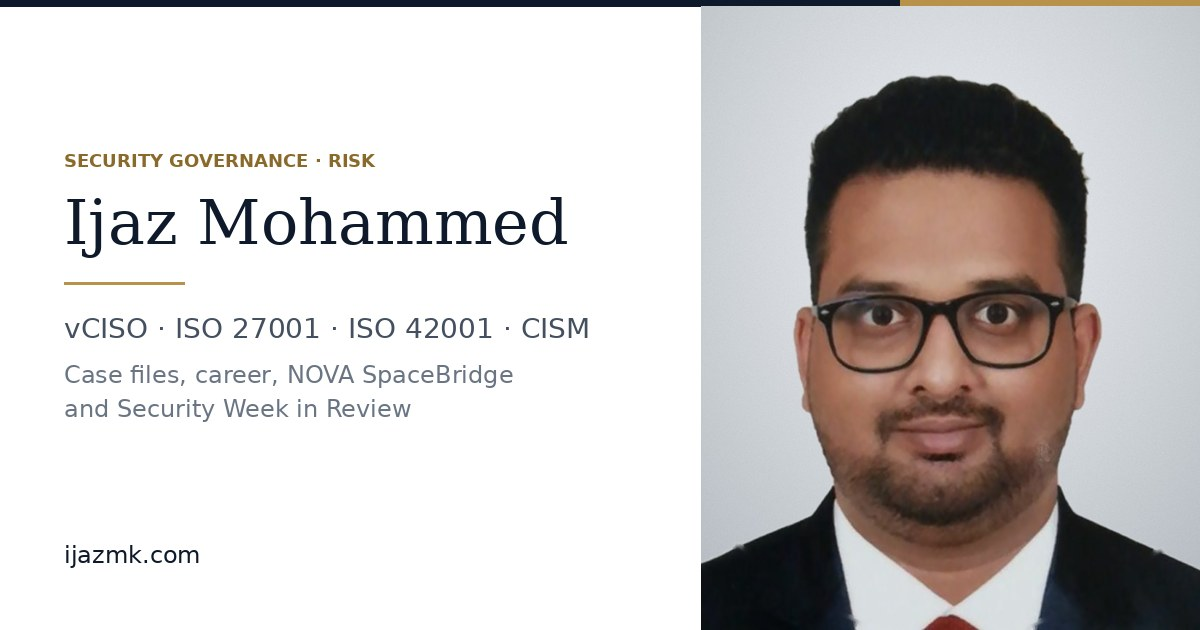
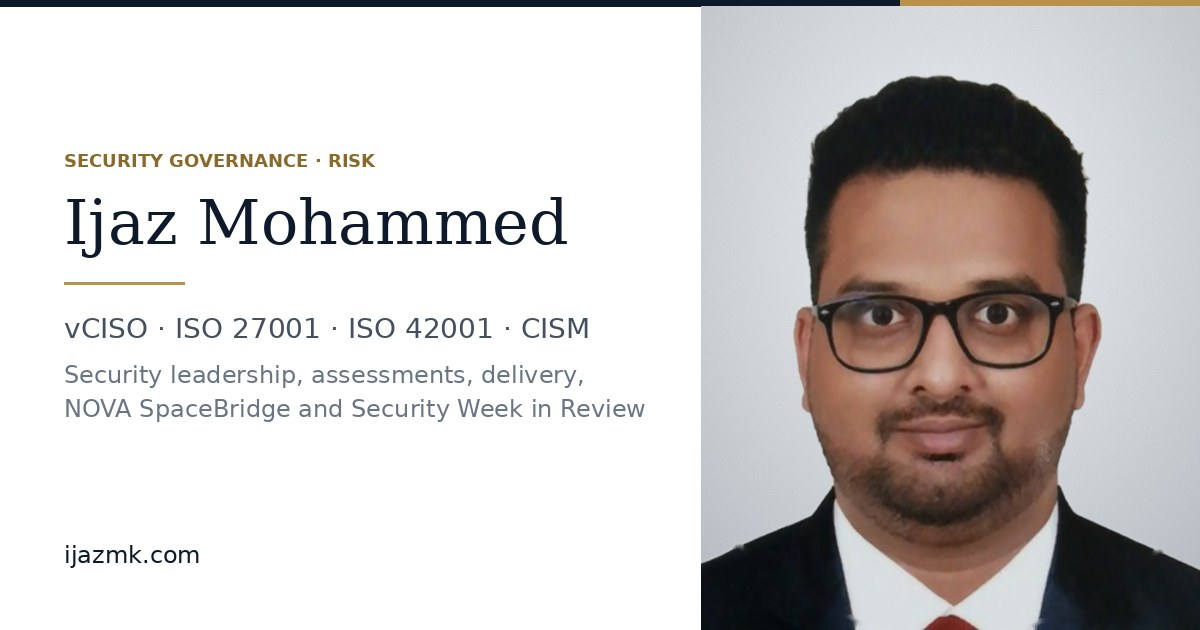
Replace numbers, method and case files with 'What I do'; remove Annex A grid; add CCSP and AAISM to Now
Claude-Session: https://claude.ai/code/session_016zFR5vWDQSDBXWEciqvpMe

Changed region(s): [[0.0308, 0.573, 0.555, 0.6635]]

diff --git a/index.html b/index.html
@@ -11,7 +11,7 @@
 <meta property="og:description" content="Case files, method, credentials, and a weekly security digest for leaders and tech teams.">
 <meta property="og:type" content="website">
 <meta property="og:url" content="https://ijazmk.com/">
-<meta property="og:image" content="https://ijazmk.com/assets/og-card.jpg?v=3">
+<meta property="og:image" content="https://ijazmk.com/assets/og-card.jpg?v=4">
 <meta property="og:image:width" content="1200">
 <meta property="og:image:height" content="630">
 <meta name="twitter:card" content="summary_large_image">
@@ -27,10 +27,9 @@
   <div class="wrap">
     <a class="brand" href="#top"><b aria-hidden="true"></b>Ijaz Mohammed</a>
     <nav class="nav" aria-label="Sections">
-      <a href="#method" class="opt">Method</a>
-      <a href="#work">Work</a>
-      <a href="#career" class="opt">Career</a>
-      <a href="#now" class="opt">Now</a>
+      <a href="#what-i-do">What I do</a>
+      <a href="#career" class="opt">Experience</a>
+            <a href="#now" class="opt">Now</a>
       <a href="#building" class="opt">NOVA</a>
       <a href="digest/">Digest</a>
       <a href="assets/Ijaz_Mohammed_Resume.pdf" target="_blank" rel="noopener">Résumé</a>
@@ -50,7 +49,7 @@
           <p class="headline rise d2">I turn technical risk into <span class="hl">decisions leaders can act on.</span></p>
           <p class="lede rise d3">Then I stay for the part where the control gets built and the evidence holds up. Eight years across healthcare, financial services, energy and FMCG, from audit floors to running a security program for a hospital group.</p>
           <div class="actions rise d3">
-            <a class="btn primary" href="#work">See the work</a>
+            <a class="btn primary" href="#what-i-do">What I do</a>
             <a class="btn" href="assets/Ijaz_Mohammed_Resume.pdf" target="_blank" rel="noopener">Résumé PDF</a>
             <a class="btn" href="digest/">Weekly digest</a>
           </div>
@@ -71,149 +70,72 @@
 
       <nav class="inside rise d4" aria-label="Also inside">
         <span class="label">Also inside</span>
-        <a href="#work">The case files<span>11 pieces of work, what changed</span></a>
-        <a href="#coverage">Annex A coverage<span>35 of 93 controls, interactive</span></a>
+        <a href="#what-i-do">What I do<span>Leadership, assessments, delivery</span></a>
+        <a href="#career">Experience<span>Engineer, auditor, builder</span></a>
         <a href="#building">NOVA SpaceBridge<span>The seven-lens Assure map</span></a>
         <a href="#digest">Week in Review<span>Issue 04 is out</span></a>
       </nav>
     </div>
   </section>
 
-  <section class="band" aria-label="By the numbers">
-    <div class="wrap">
-      <div class="stat"><strong>8+</strong><span>years in security, audit and GRC</span></div>
-      <div class="stat"><strong>39</strong><span>vendors in the annual TPRM cycle I run</span></div>
-      <div class="stat"><strong>83</strong><span>applications in the authentication register</span></div>
-      <div class="stat"><strong>~3,000</strong><span>controls tested in 45 days for a global energy major</span></div>
-      <div class="stat"><strong>20</strong><span>group websites moving into one secure AWS landing zone</span></div>
-    </div>
-  </section>
-
-  <section class="section" id="method">
+  <section class="section" id="what-i-do">
     <div class="wrap">
       <div class="section-head">
         <div>
-          <div class="kick"><span class="label">How I work</span><span class="label">The method</span></div>
-          <h2>Four steps. <span class="hl">Every engagement.</span></h2>
+          <div class="kick"><span class="label">What I do</span><span class="label">Leadership · assessments · delivery</span></div>
+          <h2>More than <span class="hl">implementation.</span></h2>
         </div>
-        <p class="side">Whether it's an ISO 27001 build, a vendor review or an SSO rollout, the work runs in the same order. Skipping a step is usually where programs stall.</p>
-      </div>
-      <ol class="method">
-        <li><span class="n">01</span><h3>Start with the business</h3><p>What can't stop, who gets hurt if it does, and who owns the decision. A hospital and an exchange house have different worst days.</p></li>
-        <li><span class="n">02</span><h3>Map once, comply many times</h3><p>One unified control framework across ISO 27001, ADHICS and NIST CSF, so one control answers several auditors instead of three spreadsheets.</p></li>
-        <li><span class="n">03</span><h3>Build the control with its evidence</h3><p>A control nobody can prove is an opinion. I write the configuration, the owner and the evidence at the same time.</p></li>
-        <li><span class="n">04</span><h3>Hand over a decision, not a report</h3><p>Options, cost, residual risk and a named owner. Leadership should be able to say yes or no in one meeting.</p></li>
-      </ol>
-    </div>
-  </section>
-
-  <section class="section" id="work">
-    <div class="wrap">
-      <div class="section-head">
-        <div>
-          <div class="kick"><span class="label">Selected work</span><span class="label">Healthcare · energy · finance · FMCG</span></div>
-          <h2>The case files</h2>
-        </div>
-        <p class="side">What I did, where, and what changed because of it. Each file is tagged with the ISO 27001:2022 Annex A controls it moved. Hover or tap a file to light them up on the grid below.</p>
+        <p class="side">Framework implementation is one part of the job. Most of my work is leading security programs, assessing risk honestly, running projects through to the end, and growing the people around them.</p>
       </div>
 
-      <div class="cases" id="cases">
-        <article class="case wide" tabindex="0" data-c="5.15 5.16 5.17 5.18 8.5 7.7">
-          <div class="case-top"><div class="tags"><span class="tag hot">Identity</span><span class="tag">Flagship</span></div><span class="where">Healthcare group, GCC · 2025 – now</span></div>
-          <h3>Single sign-on across clinical, business and cloud platforms</h3>
-          <p>Leading a three-phase SSO program on Microsoft Entra ID. The hard part wasn't the protocol, it was the shared clinical workstations in operating theatres, where Conditional Access and session controls had to cut unattended-session risk without slowing a surgeon down. Along the way I built an authentication register covering <span class="fig">83 applications</span> and an application-to-entity map across <span class="fig">20 group entities</span>, so leadership has one view of who logs in where and where the gaps are.</p>
-          <div class="controls"><span class="label">Annex A</span><span class="chip">5.15</span><span class="chip">5.16</span><span class="chip">5.17</span><span class="chip">5.18</span><span class="chip">7.7</span><span class="chip">8.5</span></div>
+      <div class="caps">
+        <article class="cap">
+          <span class="label">Leadership</span>
+          <h3>vCISO and security leadership</h3>
+          <p>Running the security program for a multi-brand healthcare group across four countries: strategy, roadmap, budget cases and reporting to leadership. Helped lift program maturity from Risk Informed to Repeatable.</p>
+          <p class="where">ICD InfoSec · 2025 – now</p>
         </article>
-
-        <article class="case" tabindex="0" data-c="5.19 5.20 5.21 5.22">
-          <div class="case-top"><div class="tags"><span class="tag amber">Third-party risk</span></div><span class="where">Healthcare group · 2025 – now</span></div>
-          <h3>A vendor review cycle that changes contracts</h3>
-          <p>Annual assessments across <span class="fig">39 vendors</span>, from cloud and contact-centre platforms to security tooling. Business, technology and people controls, re-tiered criticality, and liability and risk-acceptance clauses added with Legal so findings have somewhere to land.</p>
-          <div class="controls"><span class="label">Annex A</span><span class="chip">5.19</span><span class="chip">5.20</span><span class="chip">5.21</span><span class="chip">5.22</span></div>
+        <article class="cap">
+          <span class="label">Assessments</span>
+          <h3>Security and risk assessments</h3>
+          <p>Third-party risk reviews across 39 vendors a year, connected medical device assessments at two hospitals, architecture and DR reviews before new platforms go live, and go / no-go evaluations of AI products.</p>
+          <p class="where">Healthcare · financial services</p>
         </article>
-
-        <article class="case" tabindex="0" data-c="5.23 5.30 5.34 8.8 8.13 8.16">
-          <div class="case-top"><div class="tags"><span class="tag amber">Cloud &amp; hosting</span></div><span class="where">Healthcare group · 2025 – now</span></div>
-          <h3>Twenty websites, one secure landing zone</h3>
-          <p>Consolidating <span class="fig">20 group websites</span> into a single AWS UAE landing zone: full host and vendor inventory, migration path, and the target controls checklist (EDR, exposure management, vulnerability management, backup, monitoring). New platforms are also reviewed for DR, RPO/RTO and data residency before go-live.</p>
-          <div class="controls"><span class="label">Annex A</span><span class="chip">5.23</span><span class="chip">5.30</span><span class="chip">5.34</span><span class="chip">8.8</span><span class="chip">8.13</span><span class="chip">8.16</span></div>
+        <article class="cap">
+          <span class="label">Governance</span>
+          <h3>GRC, audit and compliance</h3>
+          <p>ISO 27001 programs taken to certification, ISO 22301 continuity, ISO 42001 for AI, and audits against PCI DSS, GDPR, SWIFT, ITGC and DORA readiness. One control set mapped across frameworks, so audits stop repeating work.</p>
+          <p class="where">KPMG · GE Digital · Deriv · UASG · ICD</p>
         </article>
-
-        <article class="case" tabindex="0" data-c="5.9 8.8 8.20 8.22">
-          <div class="case-top"><div class="tags"><span class="tag amber">Medical OT</span></div><span class="where">Two hospitals, UAE · 2026</span></div>
-          <h3>Connected medical devices, assessed properly</h3>
-          <p>Claroty-based and manual vulnerability assessments of connected medical devices at <span class="fig">2 hospitals</span>. Devices you can't patch on a Tuesday need a different conversation, so findings became prioritised remediation reports clinical and biomedical teams could act on.</p>
-          <div class="controls"><span class="label">Annex A</span><span class="chip">5.9</span><span class="chip">8.8</span><span class="chip">8.20</span><span class="chip">8.22</span></div>
+        <article class="cap">
+          <span class="label">Delivery</span>
+          <h3>Project and program management</h3>
+          <p>Multi-phase delivery with business, IT and vendors in the same room: a three-phase SSO rollout on Microsoft Entra ID, moving 20 group websites into one AWS landing zone, and a SOC enhancement rollout.</p>
+          <p class="where">Healthcare · energy</p>
         </article>
-
-        <article class="case" tabindex="0" data-c="8.1 8.9 8.20">
-          <div class="case-top"><div class="tags"><span class="tag amber">Hardening</span></div><span class="where">Healthcare group · 2026</span></div>
-          <h3>Minimum security baselines with the exact settings</h3>
-          <p>CIS Level 1 and 2 baselines with real values for servers, endpoints, POS, FortiGate and SonicWall firewalls, Cisco and Alcatel switches, and MSSQL, Oracle and MySQL. Written so an engineer can apply them and an auditor can test them.</p>
-          <div class="controls"><span class="label">Annex A</span><span class="chip">8.1</span><span class="chip">8.9</span><span class="chip">8.20</span></div>
+        <article class="cap">
+          <span class="label">People</span>
+          <h3>Team leadership and mentoring</h3>
+          <p>Led an internal audit team at a regulated fintech and was deputy lead of a six-person control-testing team at KPMG. I mentor juniors and run security awareness sessions for business, IT and nursing teams.</p>
+          <p class="where">Deriv · KPMG · ICD</p>
         </article>
-
-        <article class="case" tabindex="0" data-c="8.26 6.3 6.8">
-          <div class="case-top"><div class="tags"><span class="tag amber">Apps &amp; people</span></div><span class="where">Healthcare group · 2025 – now</span></div>
-          <h3>Protecting patient-facing apps, and the people using them</h3>
-          <p>Onboarding and tuning hospital and patient-facing applications on Radware WAF, with documented compensating controls where a platform has no native SSO or MFA. Security awareness sessions for business, IT and nursing teams, backed by KnowBe4.</p>
-          <div class="controls"><span class="label">Annex A</span><span class="chip">6.3</span><span class="chip">6.8</span><span class="chip">8.26</span></div>
-        </article>
-
-        <article class="case" tabindex="0" data-c="5.19 5.34">
-          <div class="case-top"><div class="tags"><span class="tag amber">AI risk</span></div><span class="where">Financial services client · 2026</span></div>
-          <h3>Go / no-go on AI platforms</h3>
-          <p>Evaluated an AI data platform and an AML tool on use cases, AI guardrails, data security and vendor risk, so the client could decide on evidence rather than demos. This is where ISO 42001 turns practical.</p>
-          <div class="controls"><span class="label">Annex A</span><span class="chip">5.19</span><span class="chip">5.34</span><span class="chip x">ISO 42001</span></div>
-        </article>
-
-        <article class="case" tabindex="0" data-c="5.7 5.18 5.24 5.26 8.2 8.8 8.16">
-          <div class="case-top"><div class="tags"><span class="tag amber">Security operations</span></div><span class="where">Energy · FMCG, KSA · 2024 – 25</span></div>
-          <h3>Detection you can measure</h3>
-          <p>Strengthened MITRE ATT&amp;CK-based detection for a SOC enhancement, including AI-driven use cases, and ran FourCore breach and attack simulations to test controls against real attack paths. Also PAM, access reviews, vulnerability closure and incident tabletop exercises.</p>
-          <div class="controls"><span class="label">Annex A</span><span class="chip">5.7</span><span class="chip">5.18</span><span class="chip">5.24</span><span class="chip">5.26</span><span class="chip">8.2</span><span class="chip">8.8</span><span class="chip">8.16</span></div>
-        </article>
-
-        <article class="case" tabindex="0" data-c="5.24 5.29 5.30 5.31 5.35">
-          <div class="case-top"><div class="tags"><span class="tag amber">Audit &amp; continuity</span></div><span class="where">Online trading fintech · 2022 – 24</span></div>
-          <h3>Leading audit in a regulated fintech</h3>
-          <p>Led internal audit for GDPR, SWIFT and PCI DSS, ITGC and DORA readiness, and implemented business continuity and incident management to ISO 22301. Mentored junior auditors along the way.</p>
-          <div class="controls"><span class="label">Annex A</span><span class="chip">5.24</span><span class="chip">5.29</span><span class="chip">5.30</span><span class="chip">5.31</span><span class="chip">5.35</span></div>
-        </article>
-
-        <article class="case" tabindex="0" data-c="5.35 5.36">
-          <div class="case-top"><div class="tags"><span class="tag amber">Assurance</span></div><span class="where">Global energy major, via KPMG · 2018 – 20</span></div>
-          <h3>About 3,000 controls in 45 days</h3>
-          <p>Internal control testing for security compliance as part of a six-person team, acting as deputy lead. It taught me how to read evidence fast, and how to tell a working control from a well-written one.</p>
-          <div class="controls"><span class="label">Annex A</span><span class="chip">5.35</span><span class="chip">5.36</span></div>
-        </article>
-
-        <article class="case" tabindex="0" data-c="5.1 5.2 5.31 8.27">
-          <div class="case-top"><div class="tags"><span class="tag amber">Programs from zero</span></div><span class="where">NBFC · exchange house · 2018 – 22</span></div>
-          <h3>Security governance where there was none</h3>
-          <p>ISO 27001 end to end for an Indian NBFC, from gap and risk assessment to Statement of Applicability, internal audit and certification. Later, formal governance, standards and controls for a PCI DSS-regulated exchange house in Dubai. Plus threat models for a product firm.</p>
-          <div class="controls"><span class="label">ISO 27001</span><span class="chip x">Cl. 4–10</span><span class="chip">5.1</span><span class="chip">5.2</span><span class="chip">5.31</span><span class="chip">8.27</span></div>
+        <article class="cap">
+          <span class="label">Operations</span>
+          <h3>Security operations and identity</h3>
+          <p>MITRE ATT&amp;CK-based detection, breach and attack simulation, privileged access, access reviews and vulnerability management, plus identity design: SSO, Conditional Access and shared clinical workstations.</p>
+          <p class="where">Microminder · ICD</p>
         </article>
       </div>
 
-      <div class="coverage" id="coverage">
-        <div class="cov-head">
-          <div>
-            <div class="kick" style="margin-bottom:10px"><span class="label">Proof of work</span><span class="label">ISO/IEC 27001:2022 Annex A</span></div>
-            <h3>Where my work lands in the standard</h3>
-          </div>
-          <div class="cov-count"><b>35</b> of 93 controls designed, implemented or tested in delivered work</div>
-        </div>
-        <div class="themes" id="themes" aria-label="Annex A controls by theme"></div>
-        <aside class="cov-panel" id="panel" aria-live="polite">
-          <span class="code">A.5.19</span>
-          <h4>Information security in supplier relationships</h4>
-          <span class="label">Where it shows up</span>
-          <ul><li>A vendor review cycle that changes contracts</li><li>Go / no-go on AI platforms</li></ul>
-        </aside>
-        <div class="cov-key" style="grid-column:1/-1"><span><i class="on"></i>Covered in delivered work</span><span><i class="lit"></i>The file you're looking at</span><span><i></i>Not yet on this list</span><span>Tap any square for the control name.</span></div>
+      <div class="how">
+        <h3 class="how-title">How I work, whatever the engagement</h3>
+        <ol class="method">
+          <li><span class="n">01</span><h3>Start with the business</h3><p>What can't stop, who gets hurt if it does, and who owns the decision. A hospital and an exchange house have different worst days.</p></li>
+          <li><span class="n">02</span><h3>Assess what is real</h3><p>Look at what is actually configured, contracted and staffed, not only what the policy says. Every finding comes with its evidence.</p></li>
+          <li><span class="n">03</span><h3>Deliver with the owners</h3><p>Controls, projects and teams only stick when the people who run them help shape them. I plan the work, clear blockers and keep the evidence as we go.</p></li>
+          <li><span class="n">04</span><h3>Hand over a decision, not a report</h3><p>Options, cost, residual risk and a named owner. Leadership should be able to say yes or no in one meeting.</p></li>
+        </ol>
       </div>
-      <p class="footnote">Client work is described at outcome level. Details stay with the client.</p>
     </div>
   </section>
 
@@ -323,8 +245,8 @@
         <article>
           <span class="pill prog">In progress</span>
           <h3>The certification path</h3>
-          <p>CISSP anchors the architecture program. CRISC formalises the risk work I already do every day. SABSA or TOGAF after that, for the enterprise architecture language.</p>
-          <div class="cert-path"><span class="next">CISSP</span><i>→</i><span>CRISC</span><i>→</i><span>SABSA / TOGAF</span></div>
+          <p>CISSP and CCSP for security architecture and cloud, AAISM for AI security management, and CRISC to formalise the risk work I already do every day. SABSA or TOGAF after that, for the enterprise architecture language.</p>
+          <div class="cert-path"><span class="next">CISSP</span><span class="next">CCSP</span><span class="next">AAISM</span><span class="next">CRISC</span><i>→</i><span>SABSA / TOGAF</span></div>
         </article>
         <article>
           <span class="pill ongoing">Ongoing</span>
@@ -472,58 +394,6 @@
 <script>
 (function () {
   var reduce = window.matchMedia && matchMedia('(prefers-reduced-motion: reduce)').matches;
-
-  /* ---------- ISO 27001:2022 Annex A ---------- */
-  var A = {
-    '5': ['Organizational', ['Policies for information security','Information security roles and responsibilities','Segregation of duties','Management responsibilities','Contact with authorities','Contact with special interest groups','Threat intelligence','Information security in project management','Inventory of information and other associated assets','Acceptable use of information and other associated assets','Return of assets','Classification of information','Labelling of information','Information transfer','Access control','Identity management','Authentication information','Access rights','Information security in supplier relationships','Addressing information security within supplier agreements','Managing information security in the ICT supply chain','Monitoring, review and change management of supplier services','Information security for use of cloud services','Information security incident management planning and preparation','Assessment and decision on information security events','Response to information security incidents','Learning from information security incidents','Collection of evidence','Information security during disruption','ICT readiness for business continuity','Legal, statutory, regulatory and contractual requirements','Intellectual property rights','Protection of records','Privacy and protection of PII','Independent review of information security','Compliance with policies, rules and standards for information security','Documented operating procedures']],
-    '6': ['People', ['Screening','Terms and conditions of employment','Information security awareness, education and training','Disciplinary process','Responsibilities after termination or change of employment','Confidentiality or non-disclosure agreements','Remote working','Information security event reporting']],
-    '7': ['Physical', ['Physical security perimeters','Physical entry','Securing offices, rooms and facilities','Physical security monitoring','Protecting against physical and environmental threats','Working in secure areas','Clear desk and clear screen','Equipment siting and protection','Security of assets off-premises','Storage media','Supporting utilities','Cabling security','Equipment maintenance','Secure disposal or re-use of equipment']],
-    '8': ['Technological', ['User endpoint devices','Privileged access rights','Information access restriction','Access to source code','Secure authentication','Capacity management','Protection against malware','Management of technical vulnerabilities','Configuration management','Information deletion','Data masking','Data leakage prevention','Information backup','Redundancy of information processing facilities','Logging','Monitoring activities','Clock synchronization','Use of privileged utility programs','Installation of software on operational systems','Networks security','Security of network services','Segregation of networks','Web filtering','Use of cryptography','Secure development life cycle','Application security requirements','Secure system architecture and engineering principles','Secure coding','Security testing in development and acceptance','Outsourced development','Separation of development, test and production environments','Change management','Test information','Protection of information systems during audit testing']]
-  };
-  var cases = Array.prototype.slice.call(document.querySelectorAll('#cases .case'));
-  var byCtrl = {};
-  cases.forEach(function (c) {
-    var t = c.querySelector('h3').textContent;
-    c.getAttribute('data-c').split(' ').forEach(function (k) { (byCtrl[k] = byCtrl[k] || []).push(t); });
-  });
-  var themes = document.getElementById('themes');
-  var panel = document.getElementById('panel');
-  var cellMap = {};
-  var esc = function (s) { return s.replace(/&/g, '&amp;').replace(/</g, '&lt;'); };
-  function show(code) {
-    var parts = code.split('.'), name = A[parts[0]][1][+parts[1] - 1], list = byCtrl[code];
-    panel.innerHTML = '<span class="code">A.' + code + ' · ' + A[parts[0]][0] + '</span><h4>' + esc(name) + '</h4>' +
-      (list ? '<span class="label">Where it shows up</span><ul>' + list.map(function (t) { return '<li>' + esc(t) + '</li>'; }).join('') + '</ul>'
-            : '<p class="muted" style="font-size:.93rem">Not part of the work listed here yet.</p>');
-    Object.keys(cellMap).forEach(function (k) { cellMap[k].classList.toggle('sel', k === code); });
-  }
-  Object.keys(A).forEach(function (t) {
-    var n = A[t][1].length, covered = 0;
-    var wrap = document.createElement('div'); wrap.className = 'theme';
-    var grid = document.createElement('div'); grid.className = 'cells';
-    for (var i = 1; i <= n; i++) {
-      var code = t + '.' + i, b = document.createElement('button');
-      b.type = 'button'; b.className = 'cell' + (byCtrl[code] ? ' on' : ''); b.textContent = code; b.id = 'ctrl-' + t + '-' + i;
-      b.setAttribute('aria-label', 'A.' + code + ' ' + A[t][1][i - 1] + (byCtrl[code] ? ', covered' : ''));
-      b.addEventListener('click', (function (c) { return function () { show(c); }; })(code));
-      if (byCtrl[code]) covered++;
-      cellMap[code] = b; grid.appendChild(b);
-    }
-    wrap.innerHTML = '<span class="label"><span>' + t + ' · ' + A[t][0] + '</span><span>' + covered + ' / ' + n + '</span></span>';
-    wrap.appendChild(grid); themes.appendChild(wrap);
-  });
-  show('5.19');
-  function light(c, on) {
-    c.getAttribute('data-c').split(' ').forEach(function (k) { if (cellMap[k]) cellMap[k].classList.toggle('lit', on); });
-    c.classList.toggle('on', on);
-  }
-  cases.forEach(function (c) {
-    c.addEventListener('mouseenter', function () { light(c, true); });
-    c.addEventListener('mouseleave', function () { light(c, false); });
-    c.addEventListener('focus', function () { light(c, true); });
-    c.addEventListener('blur', function () { light(c, false); });
-    c.addEventListener('click', function () { var on = !c.classList.contains('on'); cases.forEach(function (o) { light(o, false); }); light(c, on); });
-  });
 
   /* ---------- career timeline ---------- */
   var Y0 = 2013, Y1 = 2027, span = Y1 - Y0;

diff --git a/assets/site.css b/assets/site.css
@@ -572,3 +572,16 @@ a:hover { color: var(--amber); }
 .pg summary { cursor: pointer; color: var(--teal); font-weight: 500; }
 .pg-text { margin-top: 10px; padding: 16px 18px; background: var(--navy-2); border: 1px solid var(--line); display: flex; flex-direction: column; gap: 8px; color: var(--text-2); font-size: 0.95rem; }
 .pg-text p { max-width: none; }
+
+/* ---------- what I do (Nov 2026) ---------- */
+.caps { display: grid; gap: 1px; background: var(--line); border: 1px solid var(--line); }
+@media (min-width: 760px) { .caps { grid-template-columns: repeat(2, minmax(0, 1fr)); } }
+@media (min-width: 1100px) { .caps { grid-template-columns: repeat(3, minmax(0, 1fr)); } }
+.cap { background: var(--card); padding: 26px 24px 22px; display: flex; flex-direction: column; gap: 10px; min-width: 0; }
+.cap .label { color: var(--amber); }
+.cap h3 { font-size: 1.4rem; line-height: 1.2; }
+.cap p { color: var(--text-2); font-size: 0.96rem; }
+.cap .where { margin-top: auto; padding-top: 12px; border-top: 1px solid var(--line); font-size: 0.78rem; letter-spacing: 0.06em; color: var(--text-3); }
+.how { margin-top: clamp(48px, 7vw, 80px); }
+.how-title { font-size: clamp(1.4rem, 2.4vw, 1.8rem); margin-bottom: 28px; }
+.cert-path { gap: 8px; }
